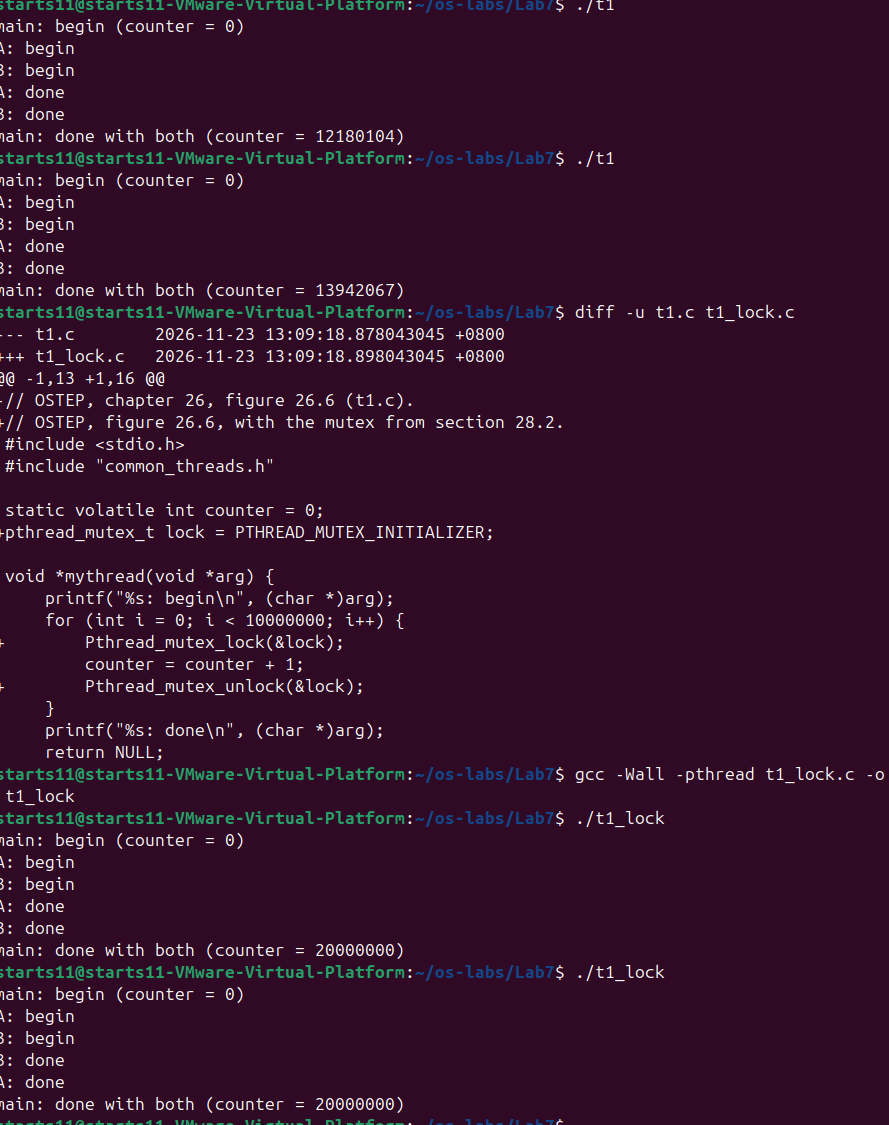
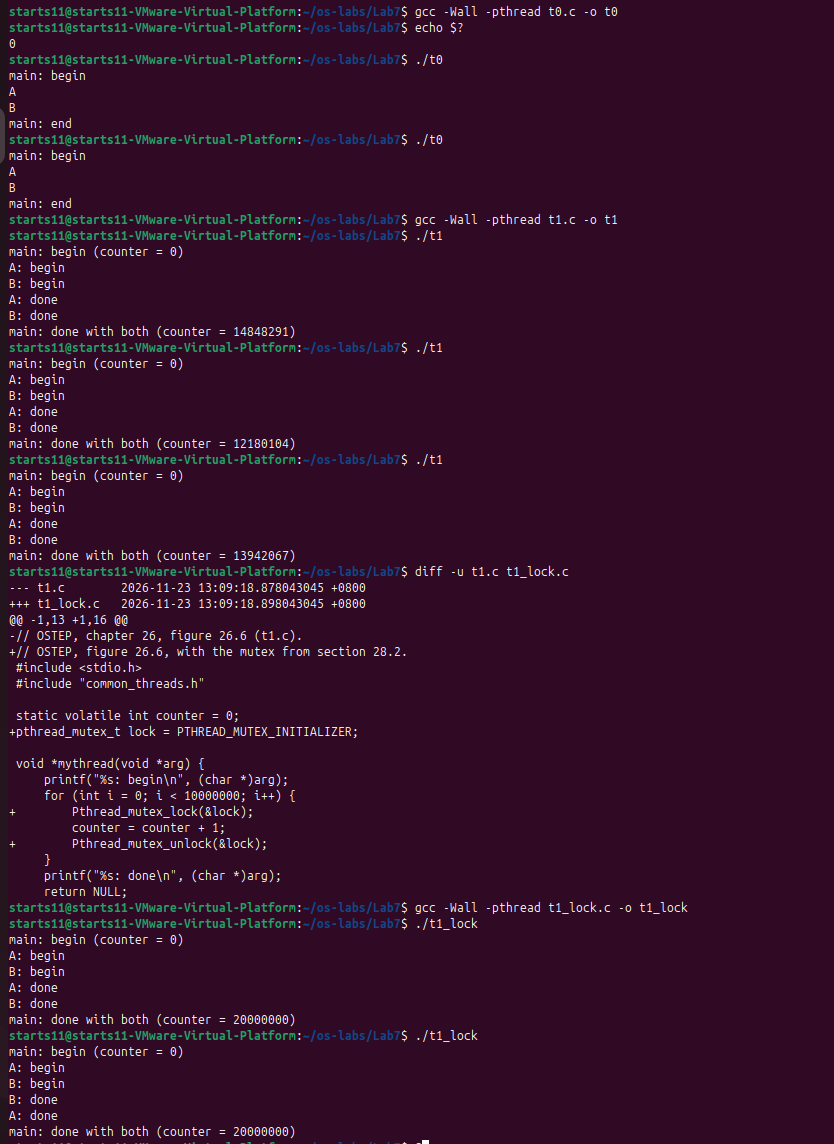
Lab7作业提交

diff --git a/2026333022彭承薇/Lab7/Lab7.md b/2026333022彭承薇/Lab7/Lab7.md
@@ -472,8 +472,8 @@ B 读取新值： 锁释放后，B 成功获取锁，进入临界区。此时 B 
 将本人实验环境的终端截图保存为 PNG，置于报告同级的 `imgs` 目录，并在 Markdown 预览中检查图像是否完整、清晰。
 
 ![两个线程的输出顺序]
-![alt text](image.png)
-![共享计数器加锁前后的运行结果](image-1.png)
+![alt text]![alt text](lab7_threads.png)
+![共享计数器加锁前后的运行结果]![alt text](lab7_counter.png)
 
 ## 三、故障排查
 
